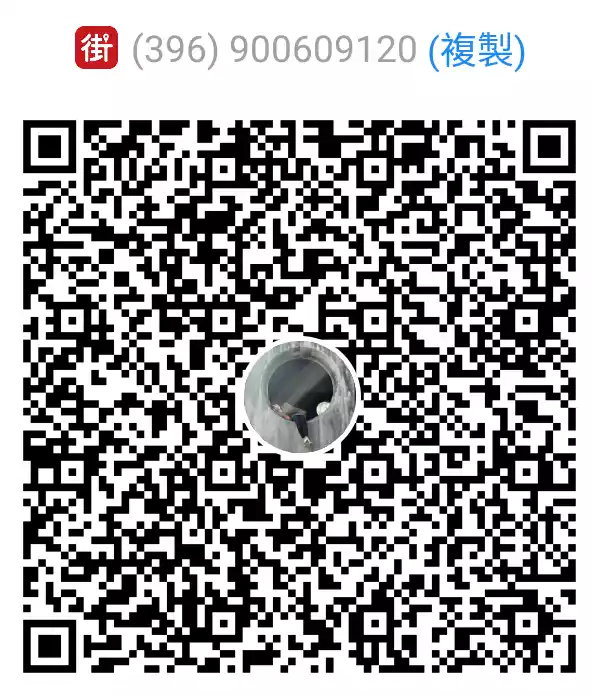
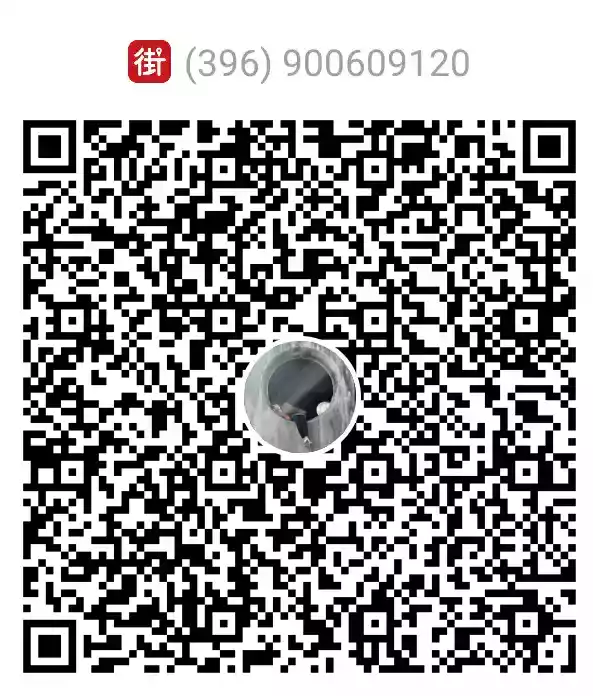
調整街口收款碼截圖

Changed region(s): [[0.1214, 0.0302, 0.9106, 0.1207]]

diff --git a/service-worker.js b/service-worker.js
@@ -37,7 +37,7 @@
 /* eslint-disable indent, no-unused-vars, no-multiple-empty-lines, max-nested-callbacks, space-before-function-paren, quotes, comma-spacing */
 'use strict';
 
-var precacheConfig = [["app.js","1119b2b05a265d9d71515d204b0670b0"],["images/JKOSAccount.webp","4a5bafe63b870276b60a15ae34de317a"],["images/discord.png","a43e0bf901c2b10dd68661c83a9c8d13"],["images/dontDonate.png","75099956037e0622a6bc51aed73a363c"],["images/instagram.png","8ffc1c8179ac2bbe0b4dcd43c1847446"],["images/mail.png","8936fc635ff29fb0fe01dcc7afea047a"],["images/mewe.png","d48b0c1754e24f23bdf76c2151a7b3ba"],["images/telegram.png","f37fbb46904c6d5ed7766300bb87a8b9"],["images/twitter.png","16905c87375d906d060d9e553c1b7f48"],["index.html","3d1e3391cbe06b1b3d2a32e97a815bef"],["style.css","1cfa27cbeb9d41463cd25e6630a878cb"]];
+var precacheConfig = [["app.js","1119b2b05a265d9d71515d204b0670b0"],["images/JKOSAccount.webp","6eaf3cb553de7015947f10893fd91174"],["images/discord.png","a43e0bf901c2b10dd68661c83a9c8d13"],["images/dontDonate.png","75099956037e0622a6bc51aed73a363c"],["images/instagram.png","8ffc1c8179ac2bbe0b4dcd43c1847446"],["images/mail.png","8936fc635ff29fb0fe01dcc7afea047a"],["images/mewe.png","d48b0c1754e24f23bdf76c2151a7b3ba"],["images/telegram.png","f37fbb46904c6d5ed7766300bb87a8b9"],["images/twitter.png","16905c87375d906d060d9e553c1b7f48"],["index.html","3d1e3391cbe06b1b3d2a32e97a815bef"],["style.css","1cfa27cbeb9d41463cd25e6630a878cb"]];
 var cacheName = 'sw-precache-v3-sw-precache-' + (self.registration ? self.registration.scope : '');
 
 
